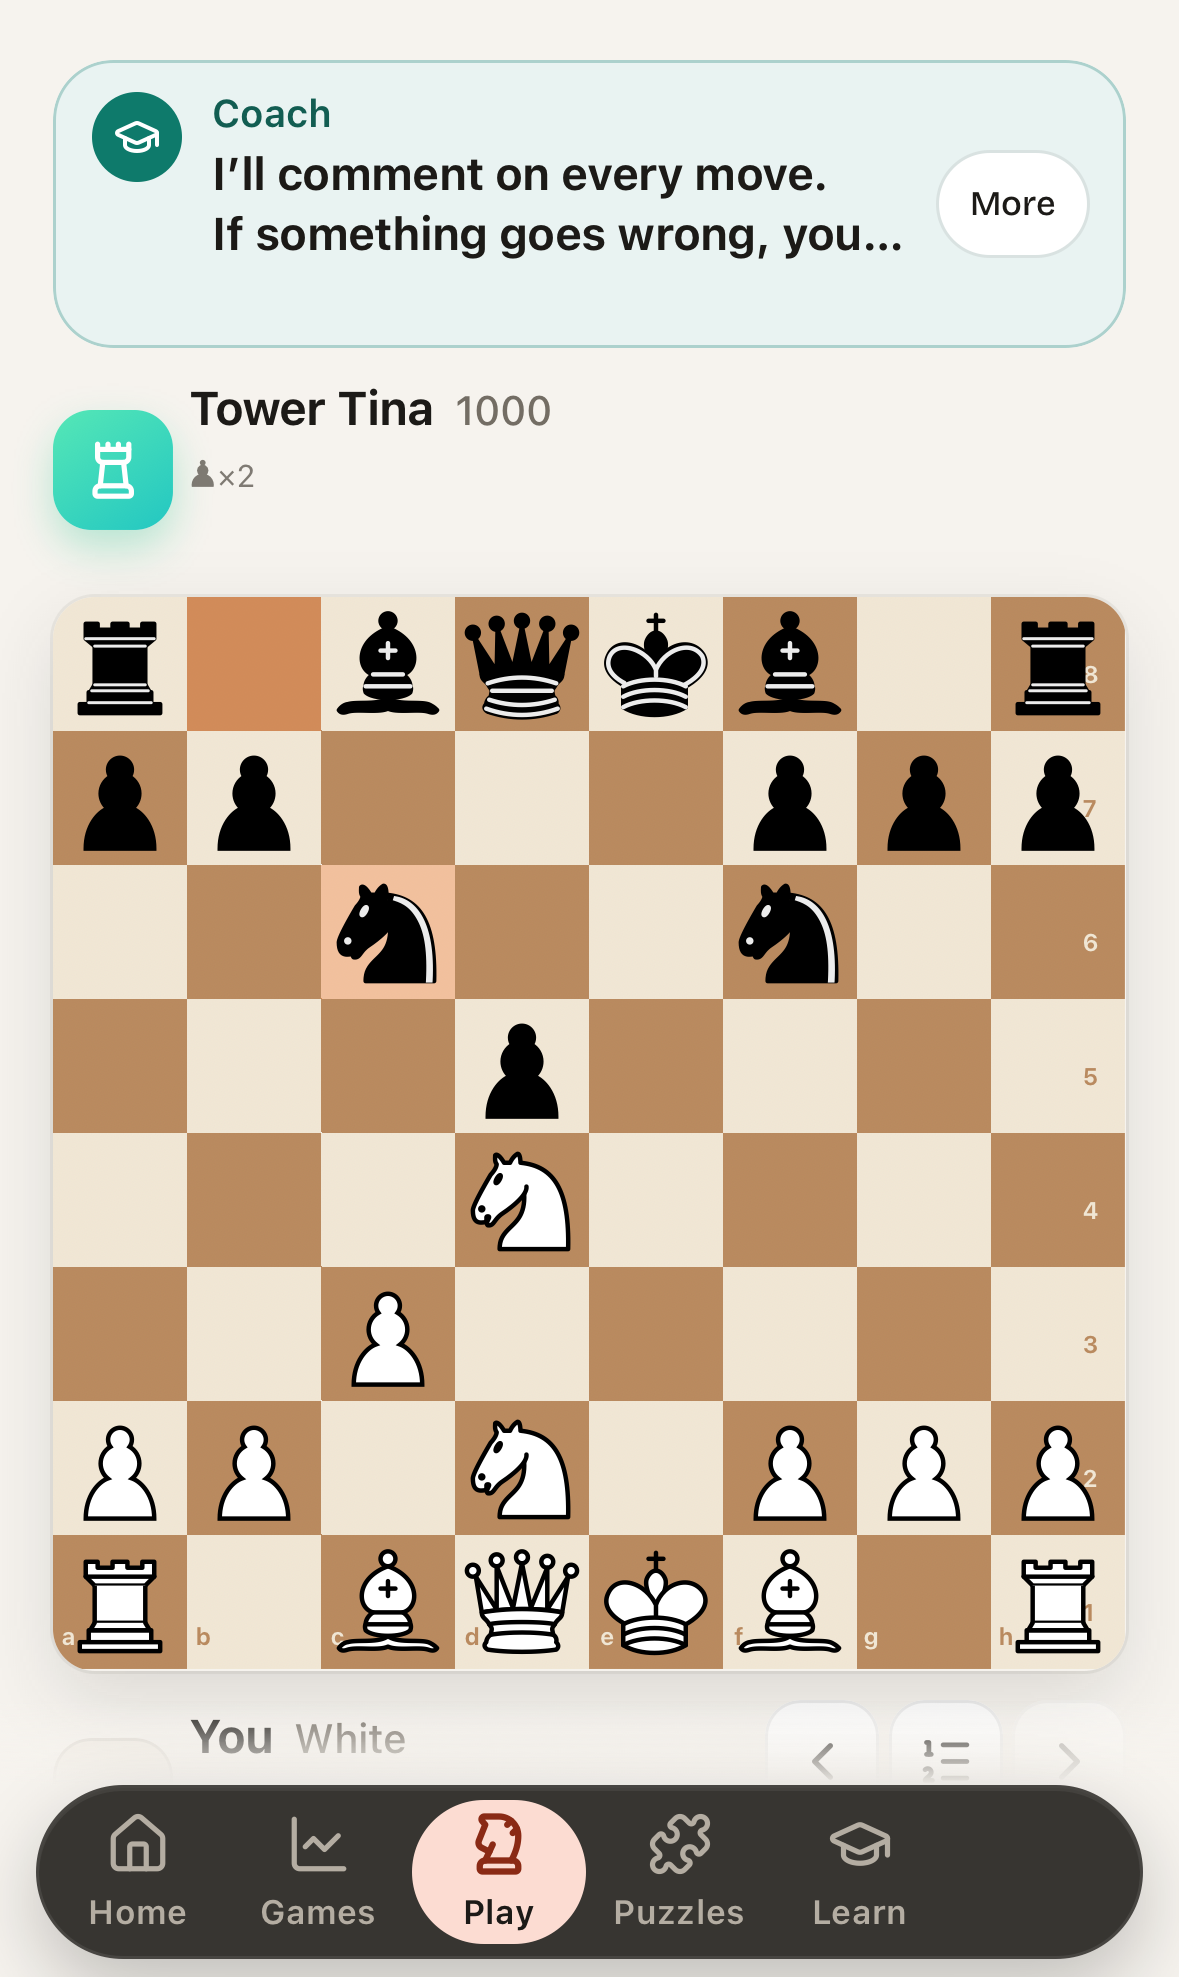
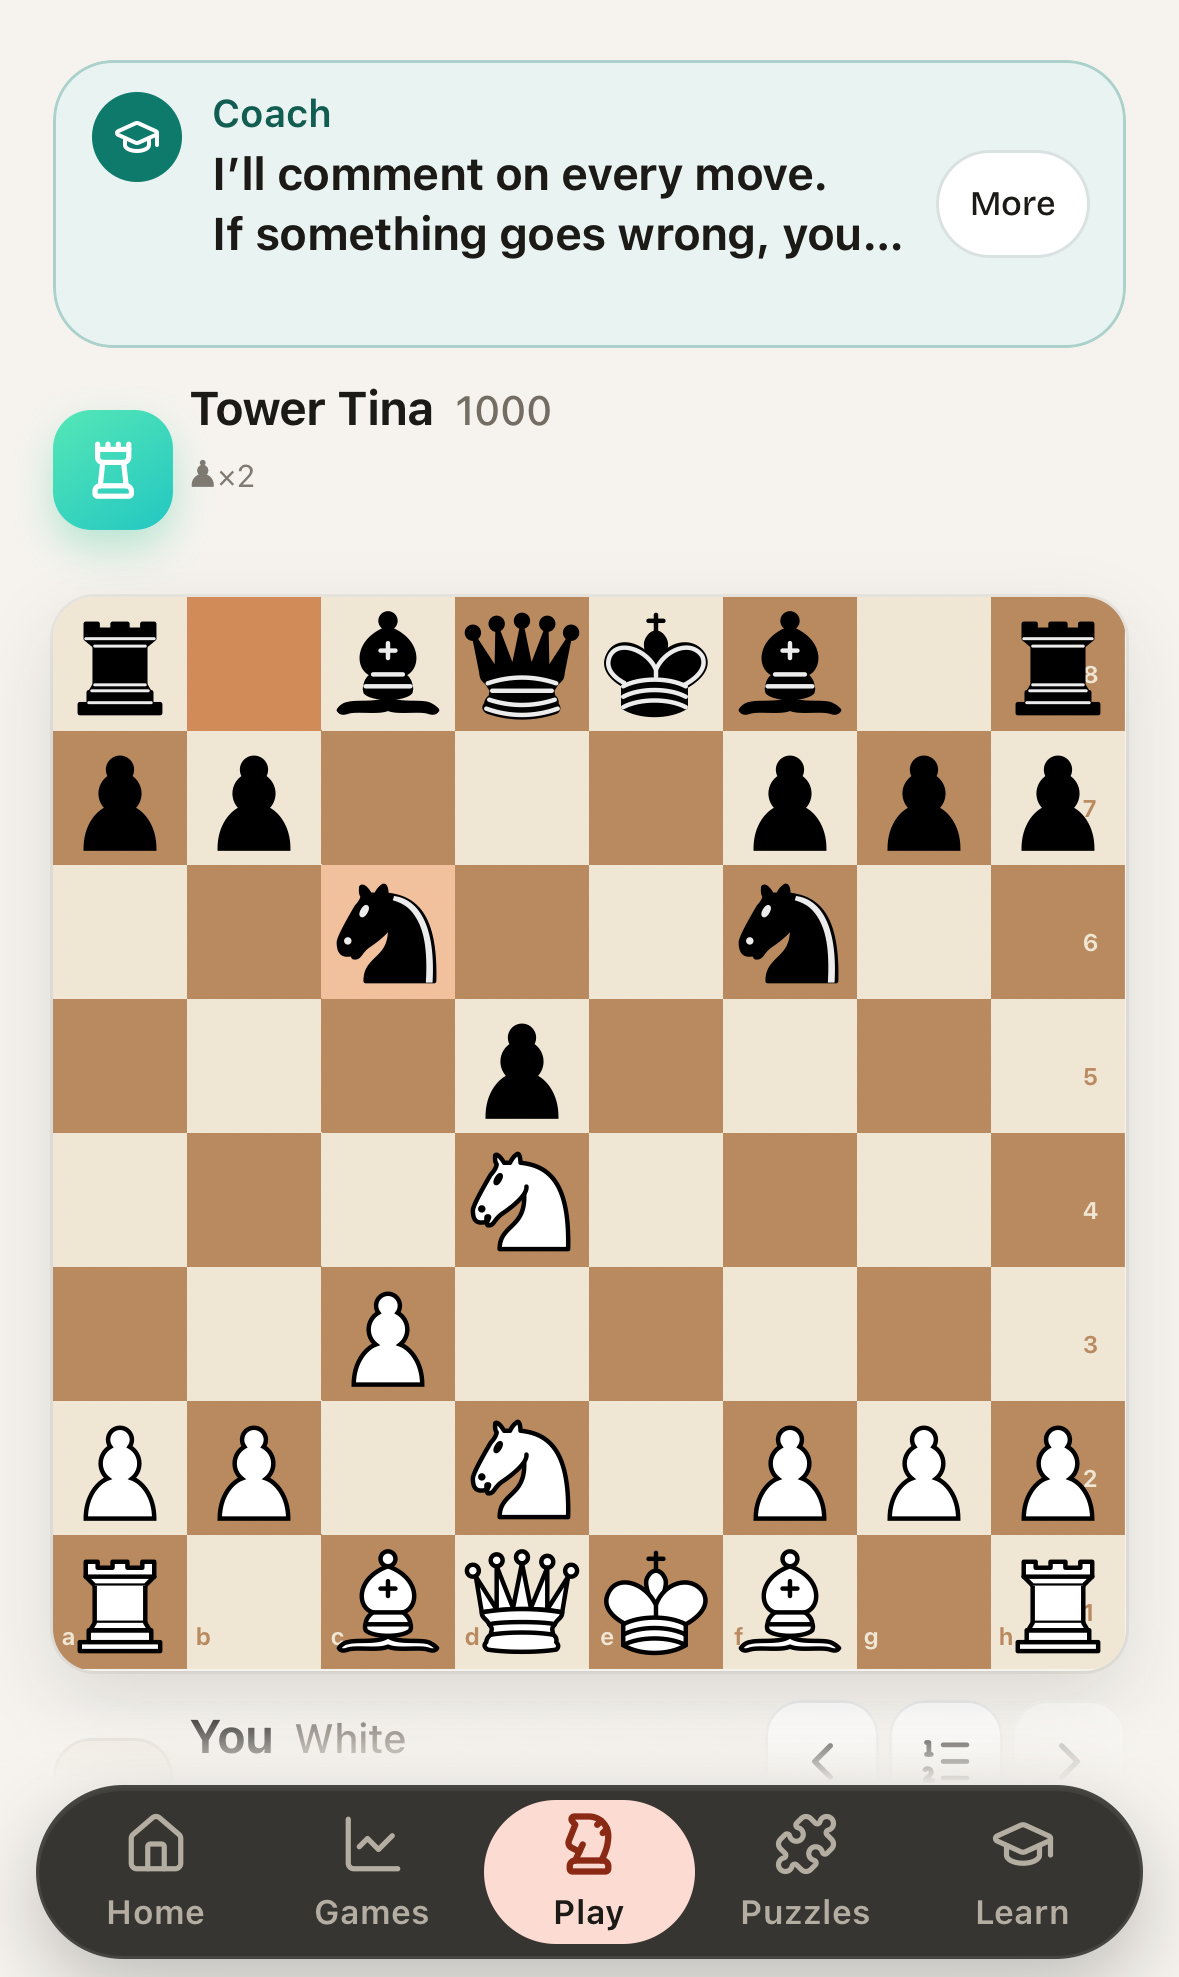
Tab-Leiste: Spalten passen sich der Tab-Zahl an (rechts war eine leere Spalte); README-Bilder neu, Altbilder entfernt

Changed region(s): [[0.2137, 0.8948, 0.7634, 0.9874], [0.0916, 0.8948, 0.1832, 0.9874], [0.8244, 0.9256, 0.8855, 0.9874]]

diff --git a/e2e/shell.e2e.ts b/e2e/shell.e2e.ts
@@ -117,3 +117,12 @@ test('Startseite: nach dem Verknüpfen kein Verknüpfen-Hinweis mehr', async ({ 
 	await expect(page.getByText('Puzzle of the day')).toHaveCount(0);
 	if (process.env.SHOT) await page.screenshot({ path: process.env.SHOT });
 });
+
+test('Tab-Leiste: Tabs füllen die ganze Breite', async ({ page, isMobile }) => {
+	test.skip(!isMobile, 'Tab-Leiste nur am Handy');
+	await page.goto('/');
+	const bar = page.locator('.tabbar');
+	const box = (await bar.boundingBox())!;
+	const last = (await bar.getByRole('link').last().boundingBox())!;
+	expect(box.x + box.width - (last.x + last.width)).toBeLessThan(12);
+});

diff --git a/src/lib/ui/TabBar.svelte b/src/lib/ui/TabBar.svelte
@@ -35,7 +35,9 @@
 		right: max(12px, calc(var(--safe-right) + 8px));
 		bottom: var(--tabbar-gap);
 		display: grid;
-		grid-template-columns: repeat(6, minmax(0, 1fr));
+		/* so viele gleich breite Spalten wie Tabs – nie eine leere Spalte */
+		grid-auto-flow: column;
+		grid-auto-columns: minmax(0, 1fr);
 		gap: 2px;
 		height: var(--tabbar-h);
 		padding: 4px;
